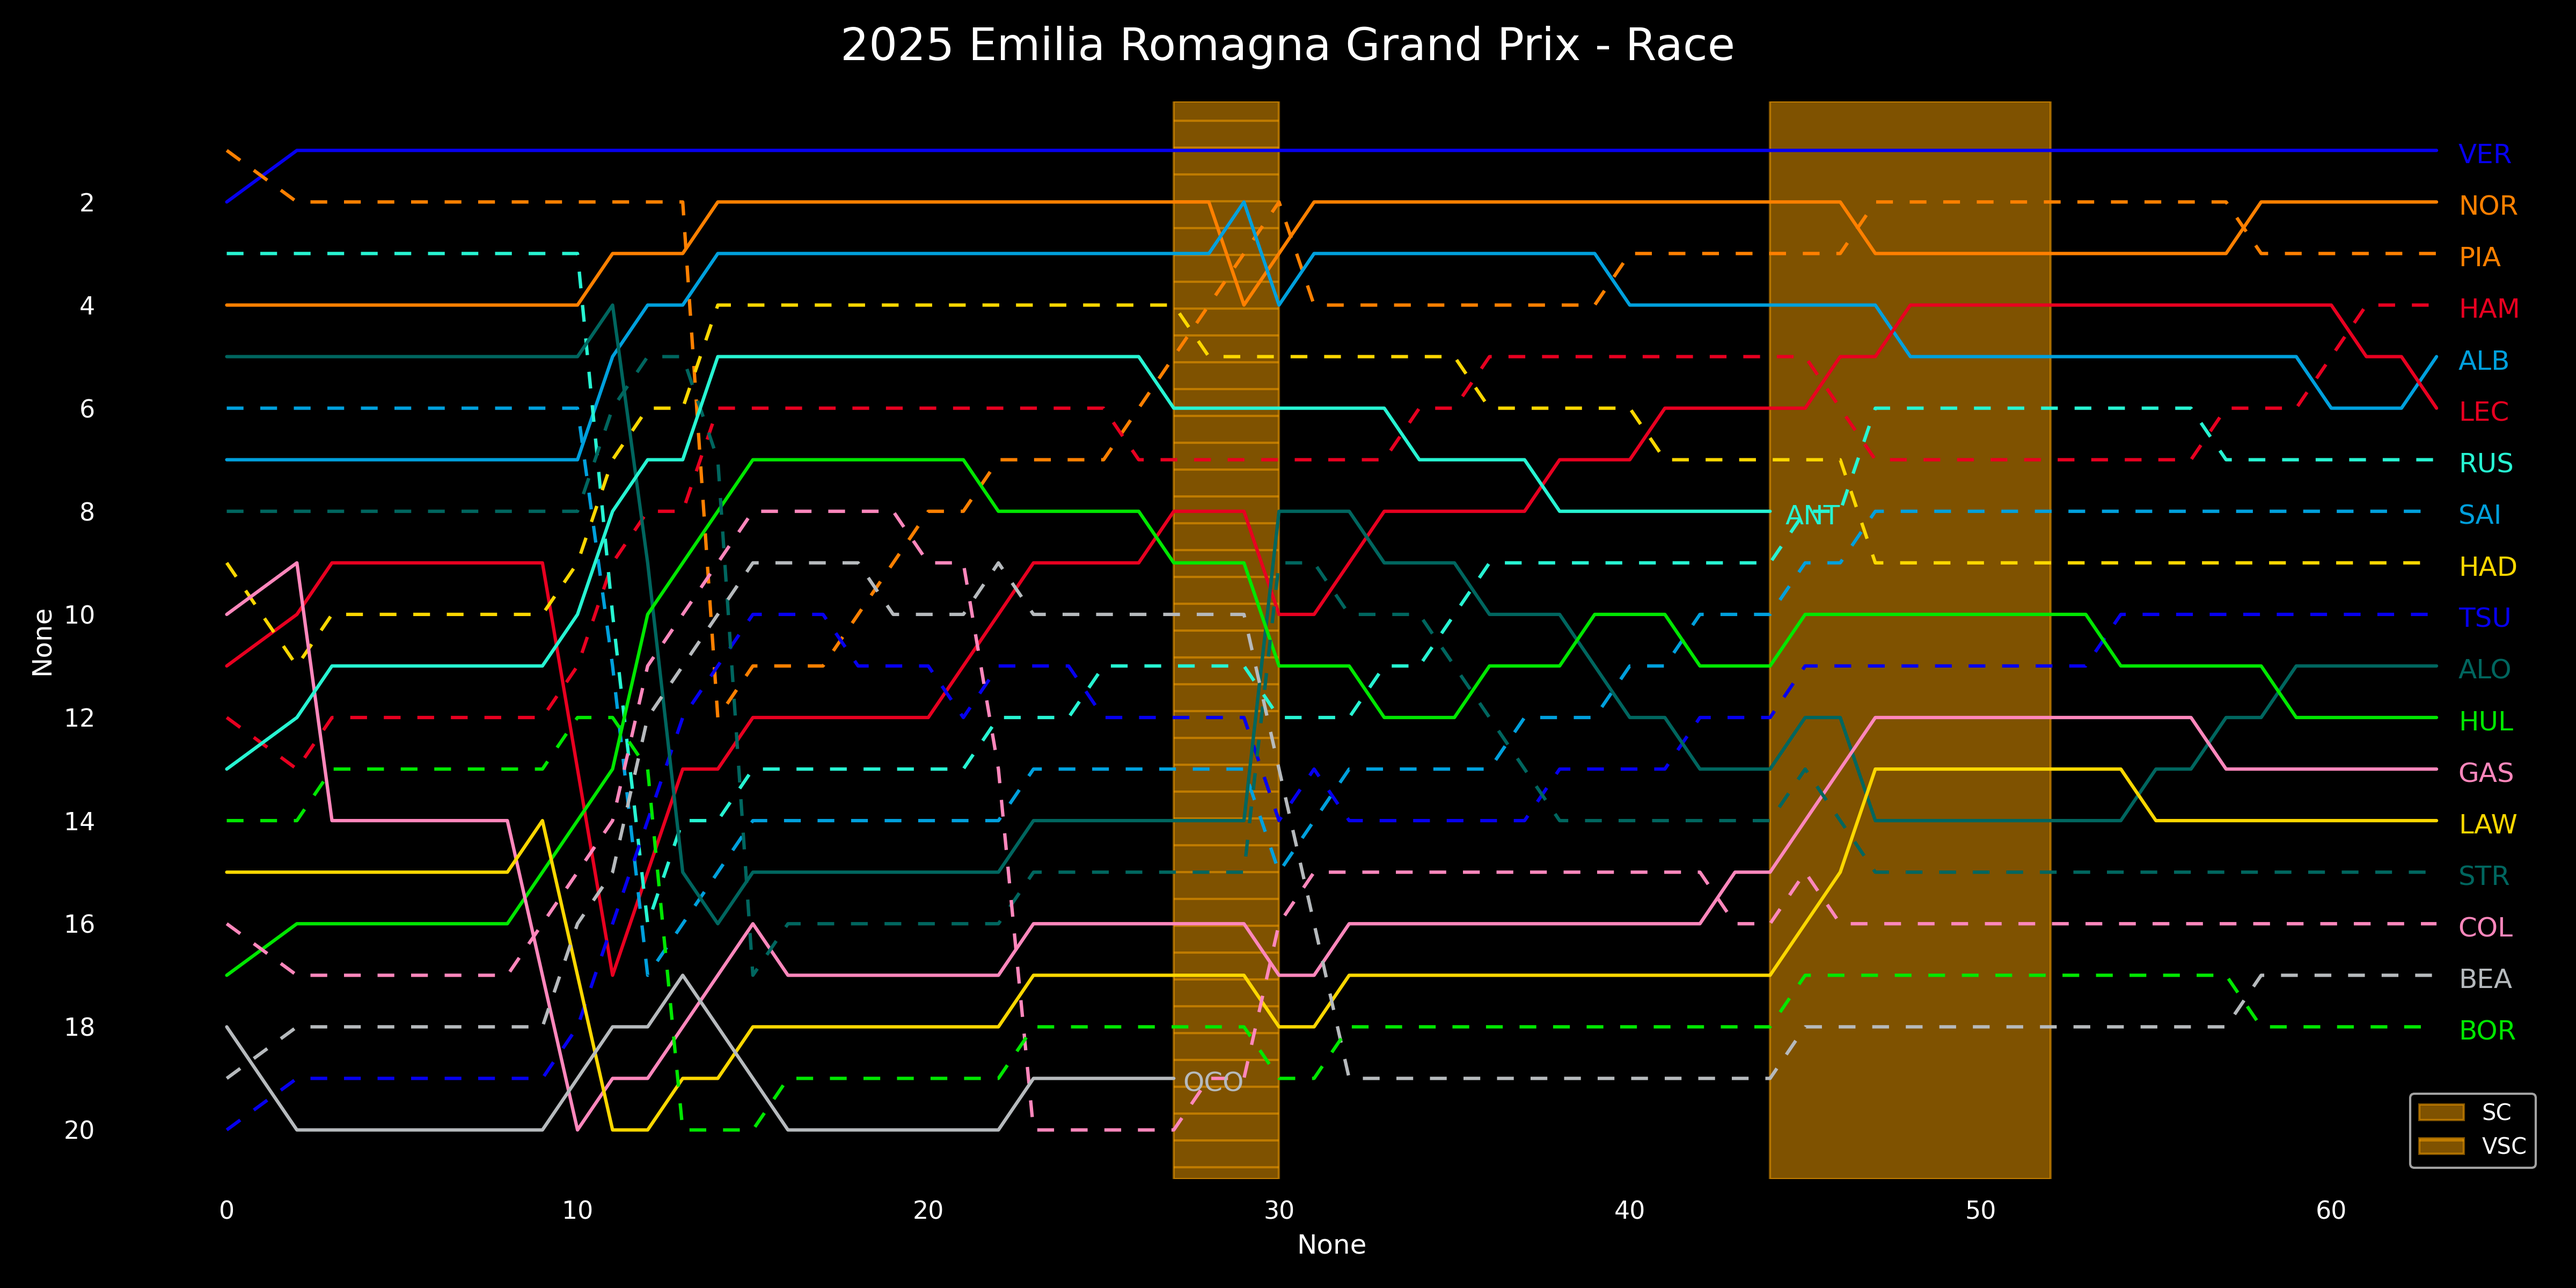
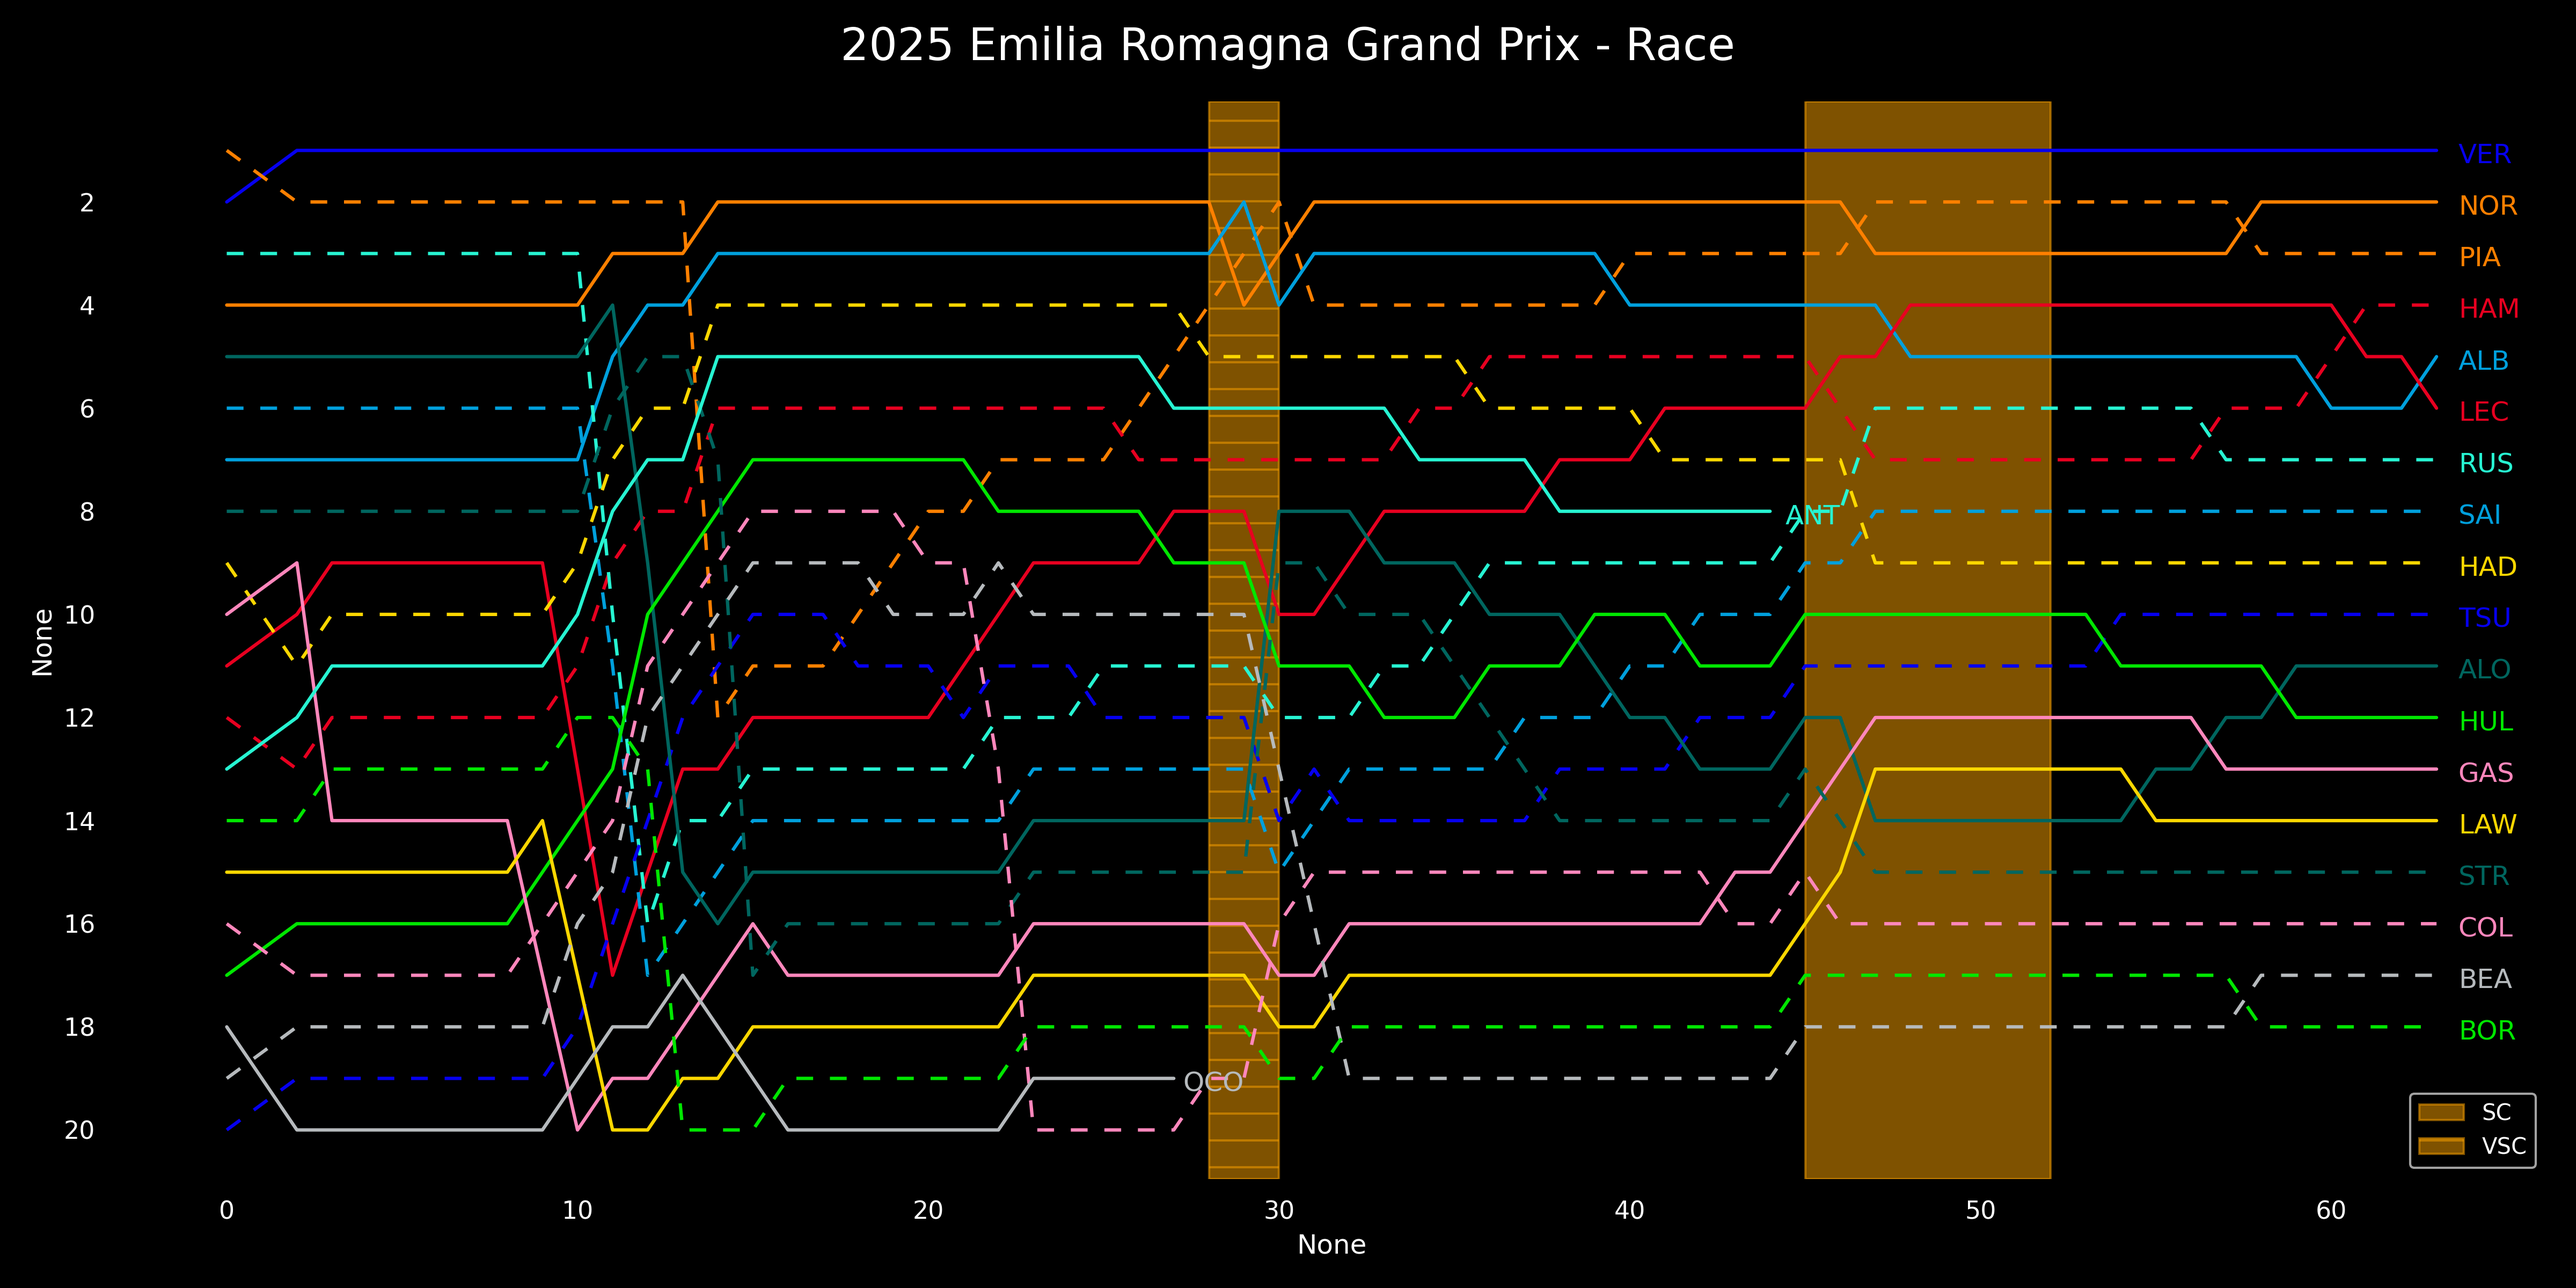
Only use leading driver lap numbers for SC periods

Changed region(s): [[0.6875, 0.0625, 0.7188, 0.9375], [0.4375, 0.0625, 0.4688, 0.9375]]

diff --git a/f1_visualization/visualization.py b/f1_visualization/visualization.py
@@ -427,7 +427,7 @@ def _lap_filter_sc(row: pd.Series) -> bool:
     Caveats:
         Unsure if the lap after "safety car in this lap" will be included.
     """
-    return "4" in row.loc["TrackStatus"]
+    return "4" in row.loc["TrackStatus"] and row.loc["Position"] == 1
 
 
 def _lap_filter_vsc(row: pd.Series) -> bool:
@@ -440,7 +440,7 @@ def _lap_filter_vsc(row: pd.Series) -> bool:
     Track status 7 is VSC ending.
     """
     return (("6" in row.loc["TrackStatus"]) or ("7" in row.loc["TrackStatus"])) and (
-        "4" not in row.loc["TrackStatus"]
+        "4" not in row.loc["TrackStatus"] and row.loc["Position"] == 1
     )
 
 
